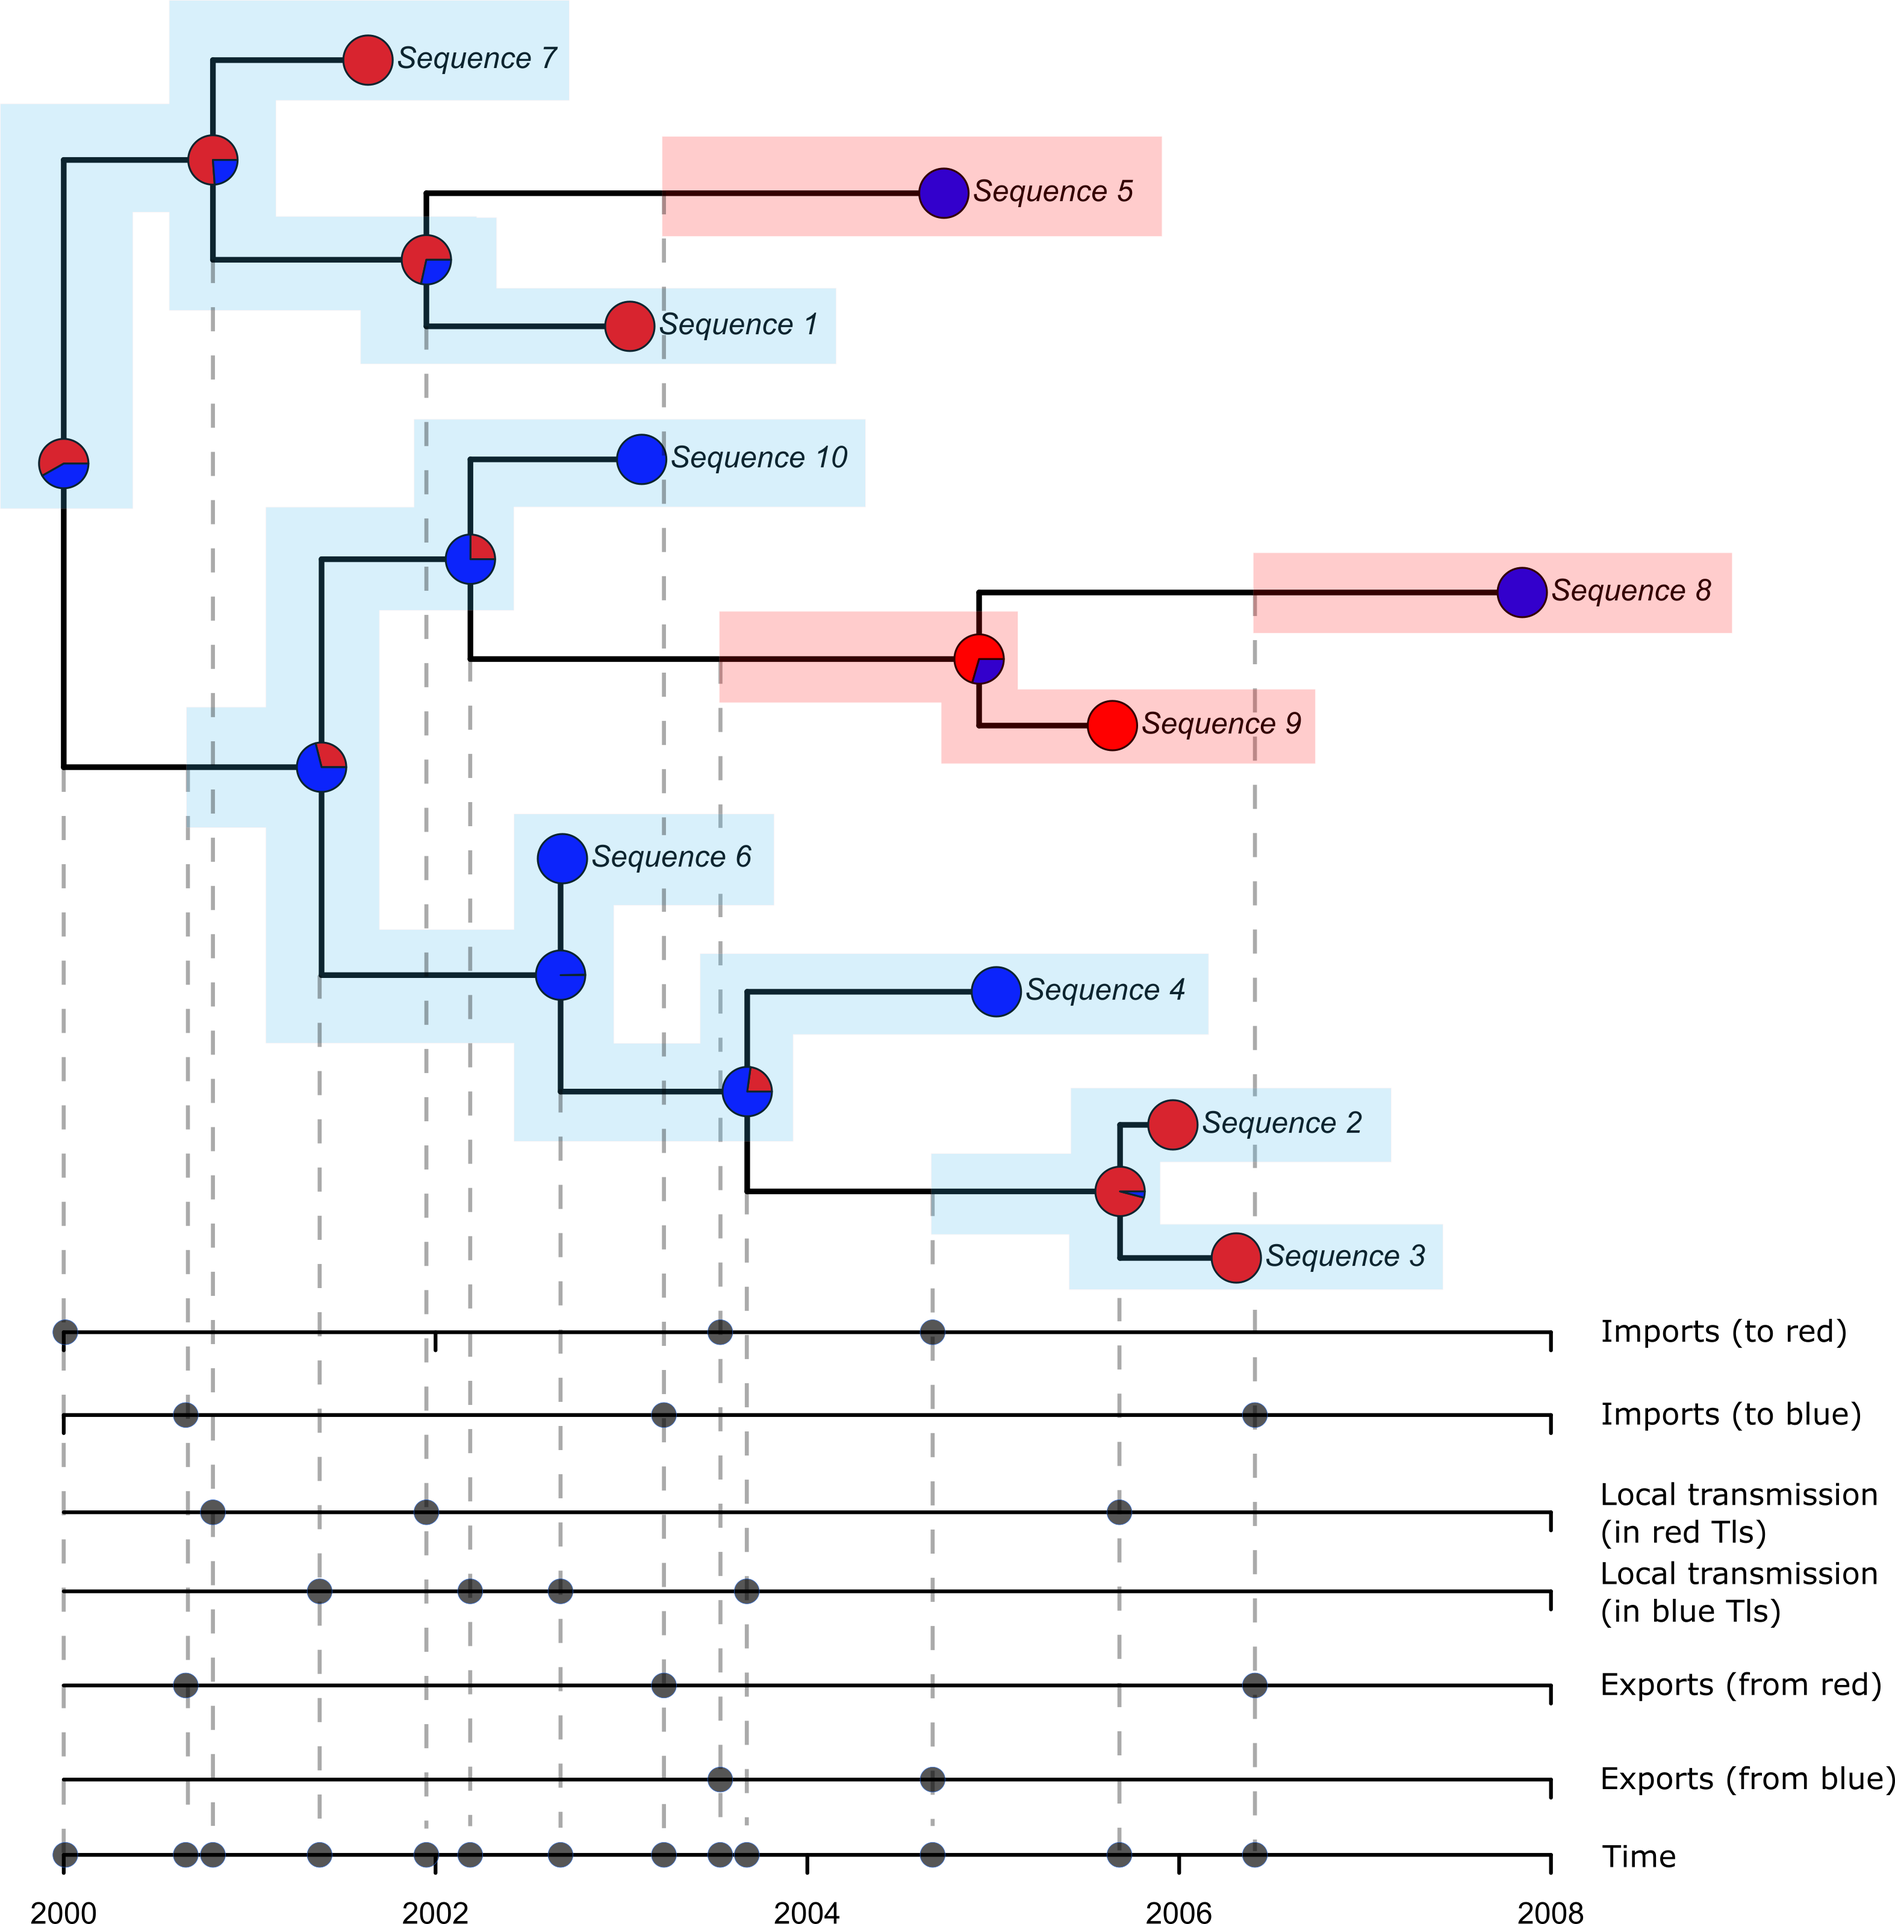
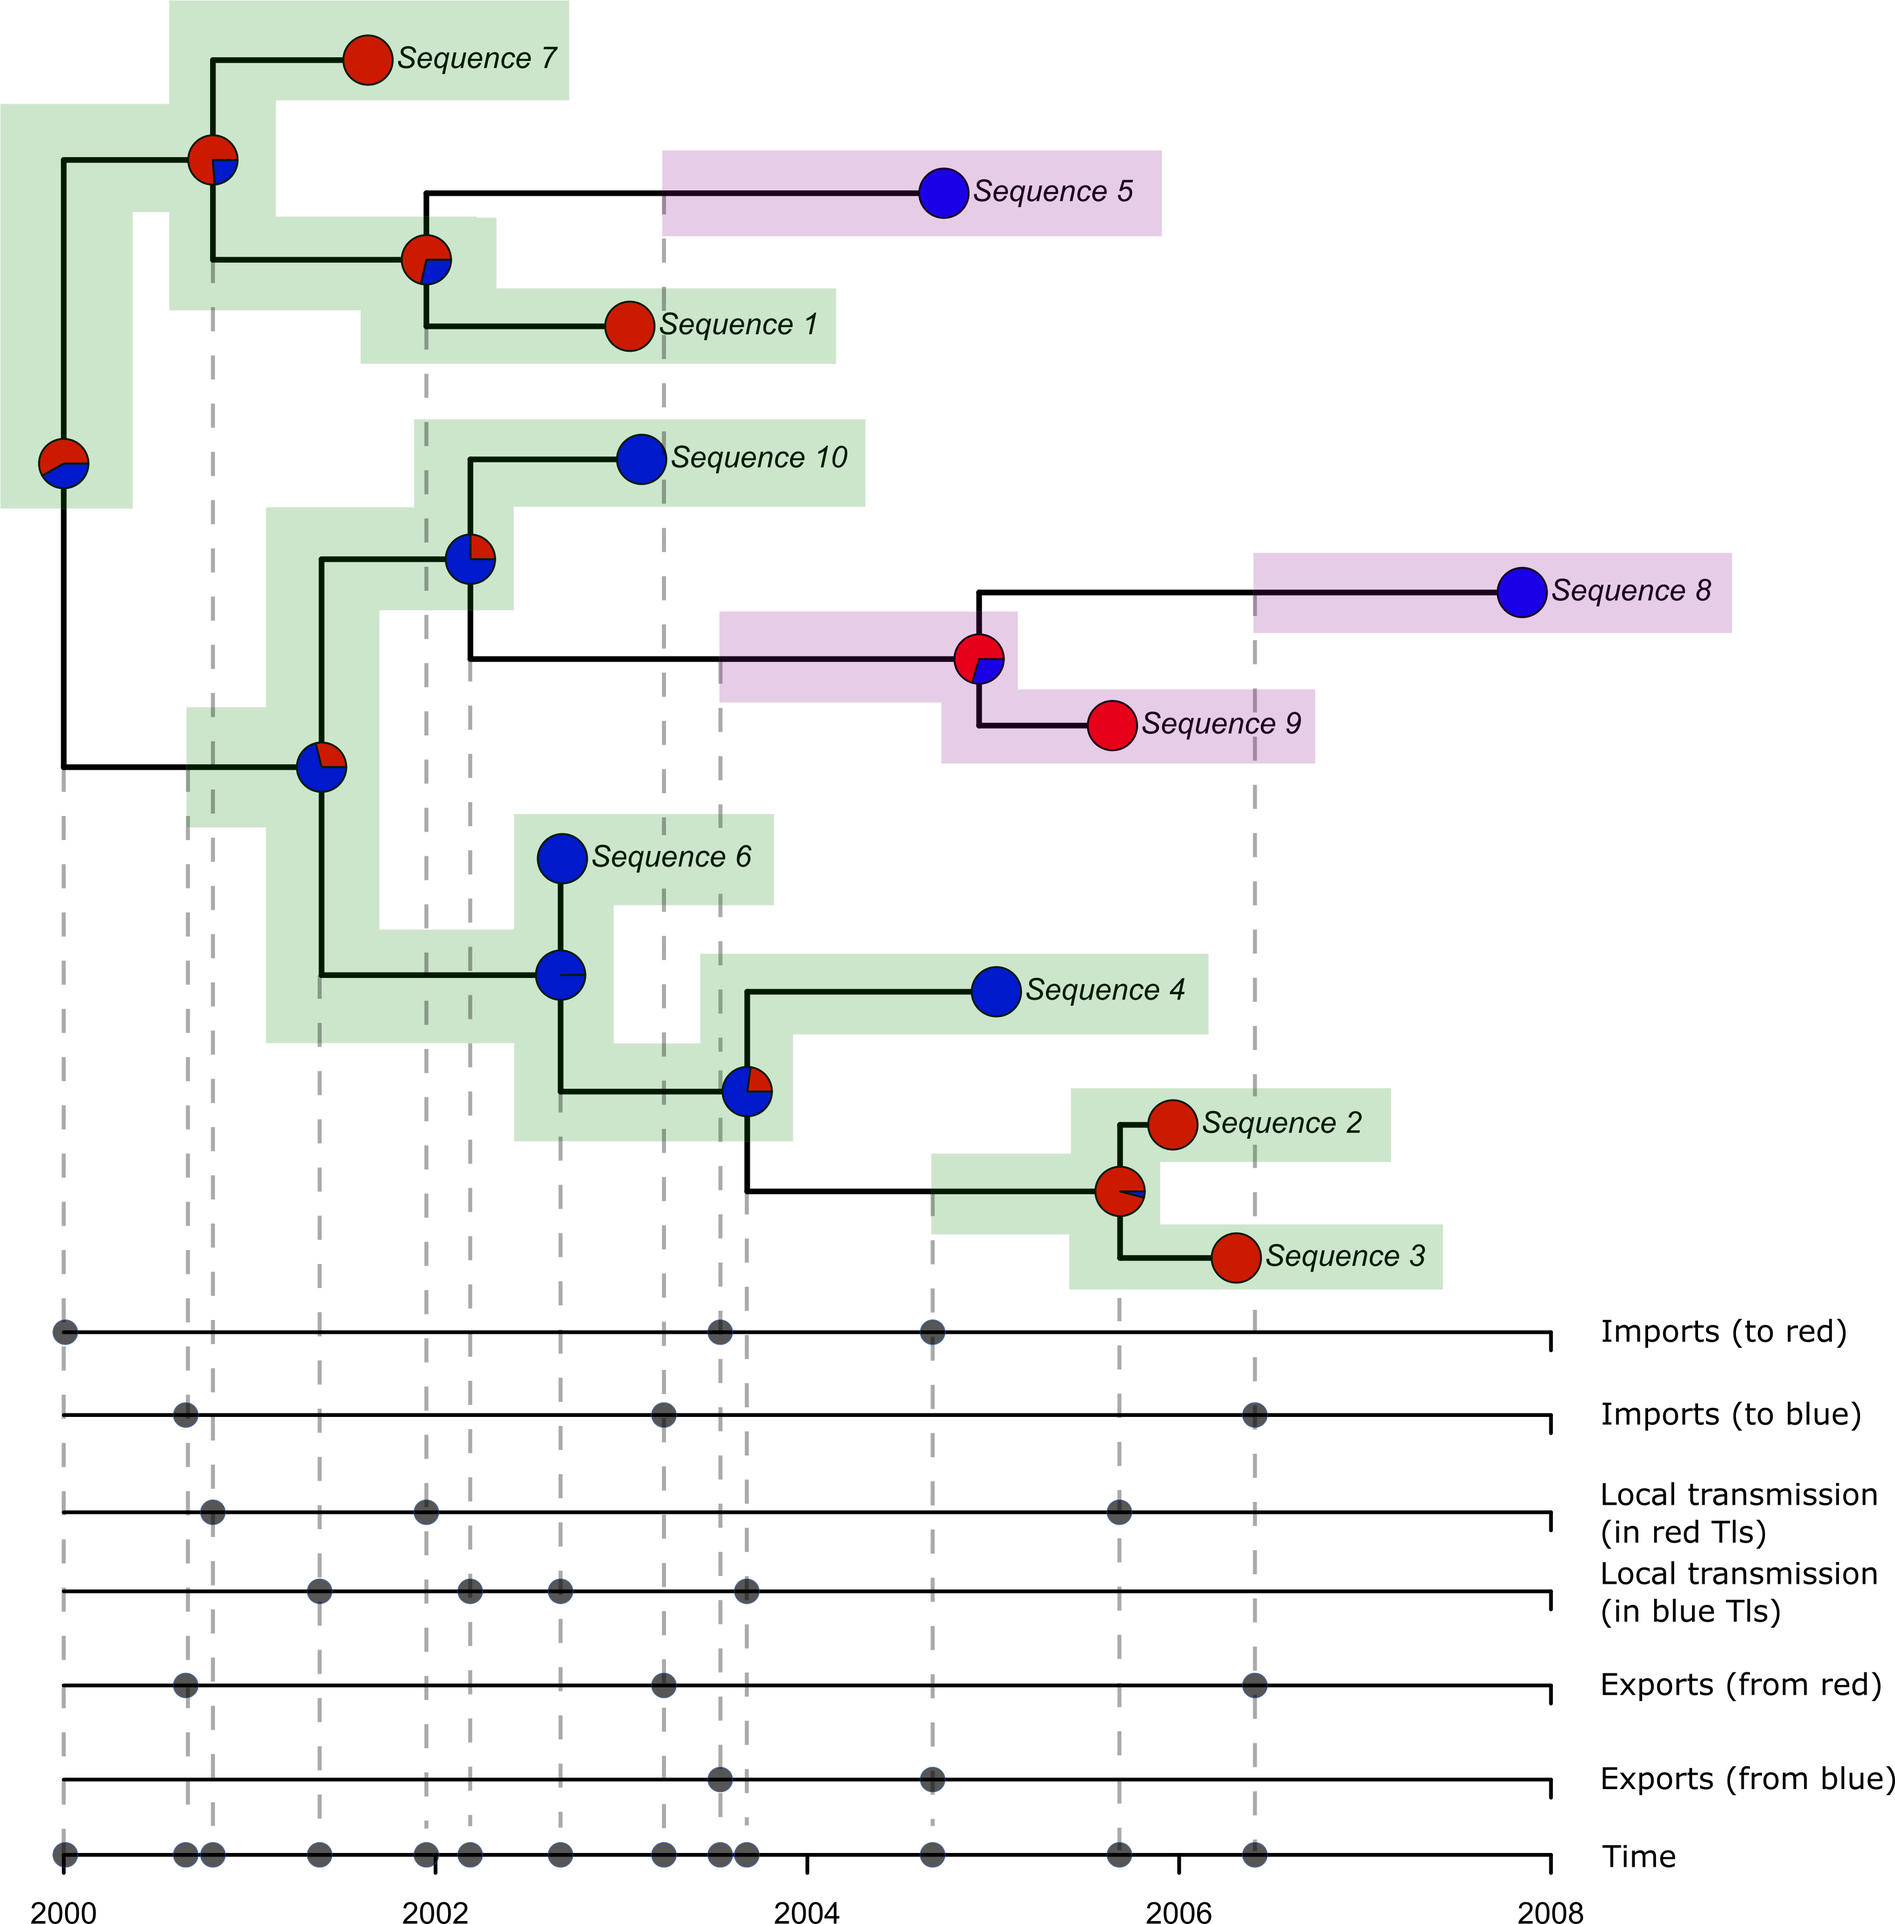
Updating cover figure.

Changed region(s): [[0.0, 0.0, 0.7785, 0.6817], [0.3737, 0.2789, 0.9342, 0.4028]]

diff --git a/README.md b/README.md
@@ -81,21 +81,21 @@ location. Here red represents Norway, and blue represents the rest of
 the world (RoW).
 
 ![LineageHomology_procedure](./Examples_and_plotting_methods/How_it_works.png)This
-figure shows how LineageHomology estimates transmission lineages,
-singletons, importation and local transmission events. The blue-shaded
-background represents transmission lineages and encompasses the tips
-that are included in the group. The transmission lineages are defined
-based on a 50 percent probability of the same state on every node within
-the TL. The red-shaded background denotes singletons, which are
-unconnected to any other tips as per the rule that defines TLs. The
-areas showing TLs and singletons extend back to the importation date,
-which is the midpoint of the edge ancestral to the most recent common
-ancestor (MRCA) for the TLs and the midpoint on the ancestral edge
-leading to the first geographical transitions for singletons.
-Importation dates are also indicated by blue stippled lines ending in
-blue dots on the time axis. Branching events are used as estimates of
-local transmission within transmission lineages, which is represented by
-red stippled lines ending in red dots on the time axis.
+figure shows how LineageHomology can be used to estimate transmission
+lineages, singletons, importation, exportation and local transmission
+events. The green-shaded background represents transmission lineages and
+encompasses the tips that are included in the group. The transmission
+lineages are defined based on a 50 percent probability of the same state
+on every node within the TL. The pink-shaded background denotes
+singletons, which are unconnected to any other tips as per the rule that
+defines TLs. The areas showing TLs and singletons extend back to the
+importation date, which is the midpoint of the edge ancestral to the
+most recent common ancestor (MRCA) for the TLs and the midpoint on the
+ancestral edge leading to the first geographical transitions for
+singletons. Importation dates are also indicated by blue stippled lines
+ending in blue dots on the time axis. Branching events are used as
+estimates of local transmission within transmission lineages, which is
+represented by red stippled lines ending in red dots on the time axis.
 
 Next we run LineageHomology on the output from ace according to the
 approach outlined above.
